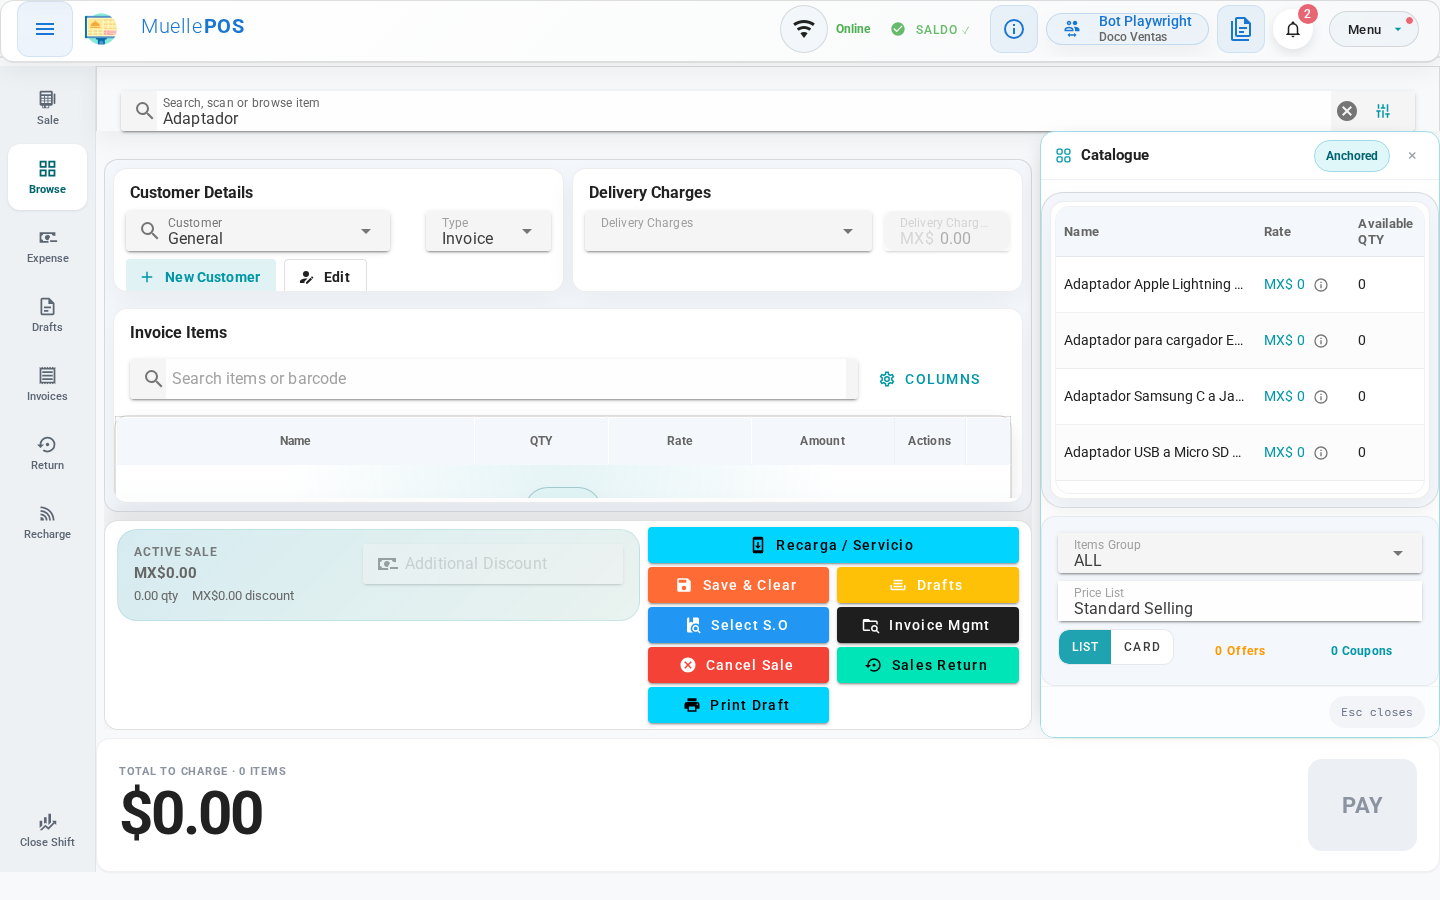
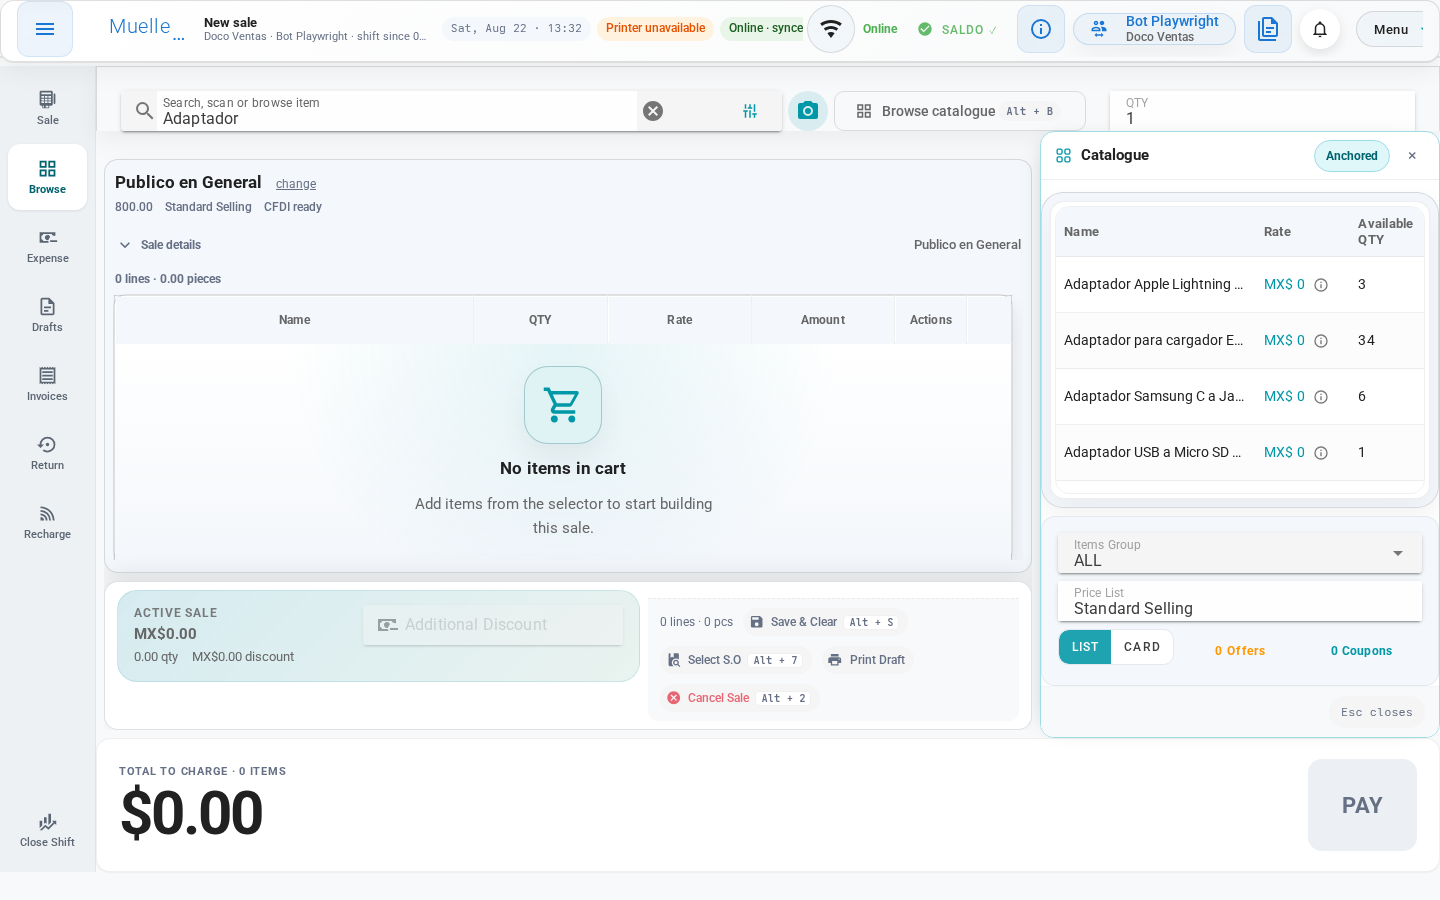
docs(register): wave 6, and the AFTER set captured from a real deploy
The evidence set is now valid: `Doco Ventas`, `railPresent: true`,
`mobileDockVisible: false` — the desktop two-column register with the rail,
the anchored cajón pushing the cart, the status line, and the band. Captured
after committing, because `version.json` stamps the COMMIT hash and every
build of uncommitted work stamped identically, leaving the service worker
unable to tell the new bundle from the old.

The log records what the capture then showed: the register saying several facts
twice, which is what wave 6 fixed. It also records the lead's own errors —
including a harness "fix" that pressed Escape at any active overlay and so
dismissed the opening dialog it was supposed to fill in, photographing the
wrong preset twice.

Claude-Session: https://claude.ai/code/session_01QqFGNT2R8v8brnTmSayQck

diff --git a/docs/POS-RIEL-Y-CAJON-LOG.md b/docs/POS-RIEL-Y-CAJON-LOG.md
@@ -7,6 +7,80 @@ only records successes is a log nobody can debug from.
 
 ---
 
+## 2026-08-22 · Committed, deployed, and the artboard convergence begins
+
+**13 atomic commits, `926428fa5` → `8a2e655d8`**, explicit staging throughout.
+One needed amending: `ItemsSelector.vue` went into the shell-wiring commit
+carrying scan-bar affordance bindings the message did not name — the exact
+"message must match the cached stat" failure. Amended rather than left wrong.
+
+Deployed, and the served stamp finally reads `8a2e655d875b` = HEAD. That was
+the point of committing first: `version.json` stamps the COMMIT hash, so every
+build of uncommitted work stamped identically while chunk hashes changed
+underneath, and the service worker could neither confirm the new bundle nor
+stop offering the old one.
+
+### The AFTER set is valid at last
+
+`Doco Ventas`, `railPresent: true`, `mobileDockVisible: false`. Rail, status
+line, customer strip, scan bar with `Browse catalogue Alt + B`, action chips
+carrying real resolved chords, and the band — all on a live register.
+
+### And it showed the register saying everything twice
+
+Three totals (band `$0.00`, `ACTIVE SALE MX$0.00`, `0.00 qty`), two count
+strips that did not even agree on format, two connection indicators, two
+customer names, and a ~270px empty-cart illustration whose copy said *"Add
+items from the selector"* — a control that no longer exists.
+
+The triple total is the one that matters: `bandState.ts` guarantees only one
+number can be PRODUCED and cannot stop a second being RENDERED elsewhere. Same
+gap that let the first double-total through. The fix is a count across the
+whole sale surface, not within any one component.
+
+### Wave 6
+
+- **Cart line anatomy** — `Cant | Descripción | Existencia | Precio u. |
+  Importe`, quantity first. Stock reads `_base_actual_qty / conversion_factor`,
+  the same expression `useItemAddition` clamps against, so the number the
+  cashier reads is the number the register enforces — a line sold by the 12-box
+  would otherwise claim 24 when 24 counts singles. `Existencia` is INJECTED
+  rather than registered, because registering it would make it hideable and
+  invisible to every register with a saved column preference. **The category
+  ancestry could not be sourced** and renders `IPN001545 · Fundas y Carcasas`
+  with no invented parent: on a mis-scan a fabricated category would confirm
+  the WRONG variant confidently, which inverts the subtitle's purpose.
+- **Top-bar dedup** — retired `StatusIndicator`'s text but kept its BUTTON,
+  which carried five things the strip cannot: the panel toggle, the tooltip
+  naming the unreachable host, the bootstrap-warning dot, the reconnecting
+  spinner, and `Limited` (network up, server down), which the strip's single
+  boolean would render as "Sin conexión". Truncation fixed at its cause —
+  identity ellipsing plus `overflow: hidden` — with chips dropped whole by
+  priority instead of clipped. **Latent bug found:** the stylesheet claimed the
+  connection chip was "rendered last and therefore clipped last"; `saldo` was
+  pushed after it, so on any saldo tenant the one chip that must never be lost
+  was second-to-last.
+
+### Two more translation holes, same shape as the cheat sheet
+
+`components/pos/items` was outside the scan (10 strings, all of them the ones
+an operator reads when something fails). Then
+`components/pos/invoice` too — 11 more, including `Subtotal`, `qty` and
+`discount`, which are on the sale screen in the AFTER screenshot. Both
+translated. The lesson is not "add another directory": it is that a scan
+scoped by hand goes stale every time a surface moves.
+
+### Agent economics — owner direction
+
+Marco: *"600k plus token per agent session is too much, once this wave is
+finish kill and start next waves on fresh agents."* Recorded as
+`feedback_agent_fresh_per_task`, with a correction after checking the numbers:
+resumption is the smaller cause. **`subagent_type: "fork"` inherits the LEAD's
+full context**, so a fork's floor rises with the session regardless of its
+task — freshly-spawned forks late in this session opened at 606k, 637k, 687k,
+690k, while identical work early on cost 270–330k. The lever is non-fork agents
+reading the plan doc, which is exactly why writing that doc early mattered.
+
 ## 2026-08-22 · Wave 3 audited, wave 4 fixing
 
 ### A1 — accessibility: two HIGH, one MEDIUM, and the drawer passed
